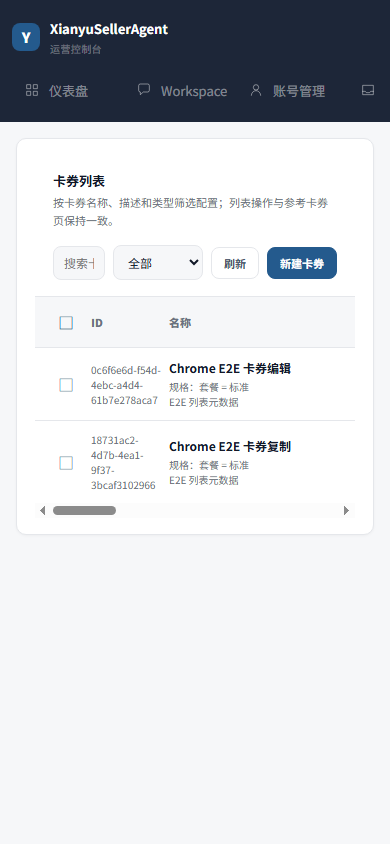
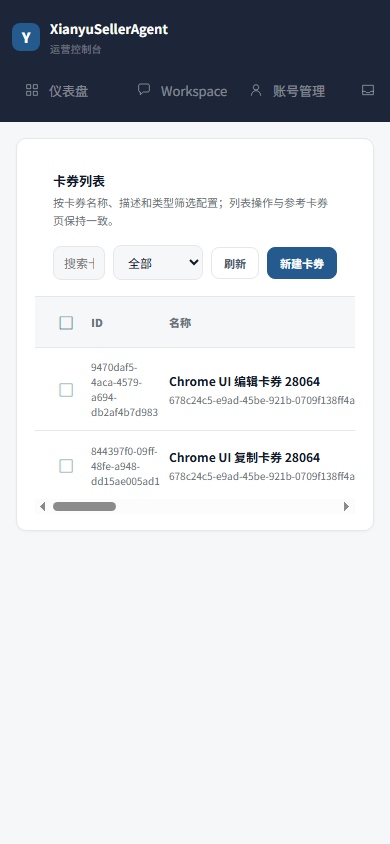
fix(卡券): 补齐创建列表管理端到端链路

diff --git a/apps/web/src/features/coupons/components/CouponsPage.tsx b/apps/web/src/features/coupons/components/CouponsPage.tsx
@@ -1,4 +1,5 @@
-import { useMemo, useState } from 'react';
+import { useEffect, useMemo, useState } from 'react';
+import { useAccountContext } from '../../../app/account-context';
 import { createMockCouponsApi, type CouponsApi } from '../api';
 import { useCouponsController } from '../controller';
 import type { CouponBatchVM } from '../types';
@@ -14,24 +15,33 @@ import './coupons.css';
 export interface CouponsPageProps { api?: CouponsApi; productsApi?: ProductsApi; }
 
 export function CouponsPage({ api: providedApi, productsApi: providedProductsApi }: CouponsPageProps) {
+  const { currentAccountId, accountsLoading, accountsError } = useAccountContext();
+  const scopedAccountId = currentAccountId ?? '__no_active_account__';
   const api = useMemo(() => providedApi ?? createMockCouponsApi(), [providedApi]);
   const productsApi = useMemo(() => providedProductsApi ?? createMockProductsApi(), [providedProductsApi]);
-  const controller = useCouponsController({ api });
+  const controller = useCouponsController({ api, initialFilters: { accountId: scopedAccountId } });
   const [selectedIds, setSelectedIds] = useState<Set<string>>(new Set());
   const [editor, setEditor] = useState<{ mode: 'create' | 'edit' | 'copy'; batch?: CouponBatchVM } | null>(null);
   const [relationBatch, setRelationBatch] = useState<CouponBatchVM | null>(null);
   const [relationReadonly, setRelationReadonly] = useState(false);
   const [imagePreview, setImagePreview] = useState<string | null>(null);
   const batches = controller.state.data?.items ?? [];
+  const contextMissing = !accountsLoading && !accountsError && !currentAccountId;
+  useEffect(() => {
+    controller.setFilters((previous) => previous.accountId === scopedAccountId ? previous : { ...previous, accountId: scopedAccountId, page: 1 });
+    setSelectedIds(new Set());
+    setEditor(null);
+    controller.closeBatch();
+  }, [controller.closeBatch, controller.setFilters, scopedAccountId]);
   const openEdit = async (batch: CouponBatchVM) => { const detail = await api.getDetail(batch.batchId); setEditor({ mode: 'edit', batch: detail }); };
   const openCopy = async (batch: CouponBatchVM) => { const detail = await api.getDetail(batch.batchId); setEditor({ mode: 'copy', batch: detail }); };
   const openRelation = async (batchId: string, readonly = false) => { const detail = await api.getDetail(batchId); setRelationReadonly(readonly); setRelationBatch(detail); };
   const saveRelation = async (productIds: string[], initialIds: string[]) => { if (!relationBatch) return; const next = new Set(productIds); for (const productId of initialIds) if (!next.has(productId)) await controller.unbindBatch(relationBatch.batchId, productId); for (const productId of productIds) if (!initialIds.includes(productId)) await controller.bindBatch(relationBatch.batchId, productId); const detail = await api.getDetail(relationBatch.batchId); setRelationBatch(detail); setRelationReadonly(false); };
   const bulkActions = selectedIds.size > 0 && <div className="coupons-bulk-actions">{<button className="btn danger" type="button" onClick={() => { if (window.confirm(`确认删除选中的 ${selectedIds.size} 张卡券？`)) void controller.batchDelete(Array.from(selectedIds)).then(() => setSelectedIds(new Set())); }}>删除选中 ({selectedIds.size})</button>}{selectedIds.size === 1 && <button className="btn ghost" type="button" onClick={() => { const batchId = Array.from(selectedIds)[0]; if (batchId) void openRelation(batchId); }}>关联商品</button>}</div>;
   return <section className="page-stack coupons-domain" data-coupons-domain>
-    <article className="card panel coupons-panel"><CouponToolbar filters={controller.filters} phase={controller.state.phase} onKeywordChange={(keyword) => { controller.setKeyword(keyword); setSelectedIds(new Set()); }} onPurposeChange={(purpose) => { controller.setFilters((previous) => ({ ...previous, purpose, page: 1 })); setSelectedIds(new Set()); }} onCreate={() => setEditor({ mode: 'create' })} onRefresh={() => void controller.reload()} bulkActions={bulkActions} />{controller.state.phase === 'success' && <CouponBatchTable batches={batches} selectedIds={selectedIds} onSelect={(batchId) => setSelectedIds((previous) => { const next = new Set(previous); if (next.has(batchId)) next.delete(batchId); else next.add(batchId); return next; })} onSelectAll={() => setSelectedIds((previous) => batches.every((batch) => previous.has(batch.batchId)) ? new Set() : new Set(batches.map((batch) => batch.batchId)))} onOpen={controller.openBatch} onEdit={(batch) => void openEdit(batch)} onCopy={(batch) => void openCopy(batch)} onBind={(batchId) => void openRelation(batchId)} onToggle={(batch) => { if (batch.status === 'voided') return; void controller.updateBatch(batch.batchId, { status: batch.status === 'active' ? 'paused' : 'active' }); }} onDelete={(batchId) => { if (window.confirm('确认删除该卡券？删除后保留审计历史。')) void controller.deleteBatch(batchId); }} onImagePreview={setImagePreview} />}<CouponListStateView phase={controller.state.phase} error={controller.state.error} onRetry={controller.reload} /></article>
+    <article className="card panel coupons-panel"><CouponToolbar filters={controller.filters} phase={controller.state.phase} createDisabled={accountsLoading || Boolean(accountsError) || !currentAccountId} onKeywordChange={(keyword) => { controller.setKeyword(keyword); setSelectedIds(new Set()); }} onPurposeChange={(purpose) => { controller.setFilters((previous) => ({ ...previous, purpose, page: 1 })); setSelectedIds(new Set()); }} onCreate={() => { if (!currentAccountId) return; setEditor({ mode: 'create' }); }} onRefresh={() => void controller.reload()} bulkActions={bulkActions} />{accountsError && <div className="coupons-inline-error" role="alert">账号上下文加载失败：{accountsError}</div>}{contextMissing && <div className="coupons-context-note" role="status">请先选择一个可用账号后再创建或管理卡券。</div>}{controller.state.phase === 'success' && <CouponBatchTable batches={batches} selectedIds={selectedIds} onSelect={(batchId) => setSelectedIds((previous) => { const next = new Set(previous); if (next.has(batchId)) next.delete(batchId); else next.add(batchId); return next; })} onSelectAll={() => setSelectedIds((previous) => batches.every((batch) => previous.has(batch.batchId)) ? new Set() : new Set(batches.map((batch) => batch.batchId)))} onOpen={controller.openBatch} onEdit={(batch) => void openEdit(batch)} onCopy={(batch) => void openCopy(batch)} onBind={(batchId) => void openRelation(batchId)} onToggle={(batch) => { if (batch.status === 'voided') return; void controller.updateBatch(batch.batchId, { status: batch.status === 'active' ? 'paused' : 'active' }); }} onDelete={(batchId) => { if (window.confirm('确认删除该卡券？删除后保留审计历史。')) void controller.deleteBatch(batchId); }} onImagePreview={setImagePreview} />}<CouponListStateView phase={controller.state.phase} error={controller.state.error} onRetry={controller.reload} /></article>
     <CouponDrawer state={controller.detail} content={controller.content} mutation={controller.mutation} onClose={controller.closeBatch} onRetry={() => controller.detail.batchId && controller.openBatch(controller.detail.batchId)} onImport={async (items) => { if (controller.detail.batchId) await controller.importItems(controller.detail.batchId, items); }} onBind={async (productId) => { if (controller.detail.batchId) await controller.bindBatch(controller.detail.batchId, productId); }} onVoid={async () => { if (controller.detail.batchId) await controller.voidBatch(controller.detail.batchId); }} onPreview={controller.previewContent} />
-    {editor && <CouponCreateModal mode={editor.mode} batch={editor.batch} submitting={controller.mutation.phase === 'submitting'} onClose={() => setEditor(null)} onSubmit={async (input) => { if (editor.mode === 'edit' && editor.batch) await controller.updateBatch(editor.batch.batchId, input); else await controller.createBatch(input as Parameters<typeof controller.createBatch>[0]); }} />}
+    {editor && <CouponCreateModal mode={editor.mode} batch={editor.batch} accountId={currentAccountId} submitting={controller.mutation.phase === 'submitting'} onClose={() => setEditor(null)} onSubmit={async (input) => { if (editor.mode === 'edit' && editor.batch) await controller.updateBatch(editor.batch.batchId, input); else await controller.createBatch(input as Parameters<typeof controller.createBatch>[0]); }} />}
     {relationBatch && <CouponRelationModal batch={relationBatch} productsApi={productsApi} readonly={relationReadonly} submitting={controller.mutation.phase === 'submitting'} onClose={() => { setRelationBatch(null); setRelationReadonly(false); }} onSave={saveRelation} />}
     {imagePreview && <div className="coupons-image-preview-backdrop" role="presentation" onMouseDown={(event) => { if (event.currentTarget === event.target) setImagePreview(null); }}><div className="coupons-image-preview card"><button type="button" className="icon-button" onClick={() => setImagePreview(null)} aria-label="关闭">×</button><img src={imagePreview} alt="卡券原图预览" /></div></div>}
   </section>;

diff --git a/apps/web/src/features/coupons/components/CouponCreateModal.tsx b/apps/web/src/features/coupons/components/CouponCreateModal.tsx
@@ -1,4 +1,4 @@
-import { useMemo, useState } from 'react';
+import { useEffect, useMemo, useState } from 'react';
 import type { ChangeEvent, FormEvent } from 'react';
 import type { CouponBatchVM, CouponMetadataVM, CreateCouponBatchRequest, UpdateCouponBatchRequest } from '../types';
 import { SelectField } from '../../../shared/ui/SelectField';
@@ -20,9 +20,9 @@ export type CouponCreateFormState = {
   quarkUrl: string; extractionCode: string; textContent: string; dataContent: string; apiUrl: string; apiMethod: 'GET' | 'POST'; apiTimeout: number; apiHeaders: string; apiParams: string; apiResponseField: string; imageUrls: string[]; delaySeconds: number; useNoLogisticsForm: boolean; deliveryCount: number; description: string; feePayer: '' | 'distributor' | 'dealer'; minPrice: string; dockVisibility: 'public' | 'dealer_only'; multiSpec: boolean; specName: string; specValue: string;
 };
 
-function fromBatch(batch?: CouponBatchVM): CouponCreateFormState {
+function fromBatch(batch?: CouponBatchVM, accountId?: string): CouponCreateFormState {
   const metadata = batch?.metadata;
-  return { accountId: batch?.accountId ?? 'account-001', label: batch?.label ?? '', purpose: batch?.purpose ?? 'text', deliveryScope: batch?.deliveryScope ?? 'operator_only', quarkUrl: batch?.quarkUrl ?? '', extractionCode: batch?.extractCode ?? '', textContent: metadata?.textContent ?? '', dataContent: metadata?.dataContent ?? '', apiUrl: metadata?.apiConfig?.url ?? '', apiMethod: metadata?.apiConfig?.method ?? 'GET', apiTimeout: metadata?.apiConfig?.timeout ?? 60, apiHeaders: metadata?.apiConfig?.headers ?? '', apiParams: metadata?.apiConfig?.params ?? '', apiResponseField: metadata?.apiConfig?.responseField ?? '', imageUrls: metadata?.imageUrls ?? [], delaySeconds: metadata?.delaySeconds ?? 0, useNoLogisticsForm: metadata?.useNoLogisticsForm ?? false, deliveryCount: metadata?.deliveryCount ?? batch?.consumedCount ?? 0, description: metadata?.description ?? '', feePayer: metadata?.feePayer ?? '', minPrice: metadata?.minPrice ?? '', dockVisibility: metadata?.dockVisibility ?? 'public', multiSpec: metadata?.multiSpec ?? false, specName: metadata?.specName ?? '', specValue: metadata?.specValue ?? '' };
+  return { accountId: batch?.accountId ?? accountId ?? '', label: batch?.label ?? '', purpose: batch?.purpose ?? 'text', deliveryScope: batch?.deliveryScope ?? 'operator_only', quarkUrl: batch?.quarkUrl ?? '', extractionCode: batch?.extractCode ?? '', textContent: metadata?.textContent ?? '', dataContent: metadata?.dataContent ?? '', apiUrl: metadata?.apiConfig?.url ?? '', apiMethod: metadata?.apiConfig?.method ?? 'GET', apiTimeout: metadata?.apiConfig?.timeout ?? 60, apiHeaders: metadata?.apiConfig?.headers ?? '', apiParams: metadata?.apiConfig?.params ?? '', apiResponseField: metadata?.apiConfig?.responseField ?? '', imageUrls: metadata?.imageUrls ?? [], delaySeconds: metadata?.delaySeconds ?? 0, useNoLogisticsForm: metadata?.useNoLogisticsForm ?? false, deliveryCount: metadata?.deliveryCount ?? batch?.consumedCount ?? 0, description: metadata?.description ?? '', feePayer: metadata?.feePayer ?? '', minPrice: metadata?.minPrice ?? '', dockVisibility: metadata?.dockVisibility ?? 'public', multiSpec: metadata?.multiSpec ?? false, specName: metadata?.specName ?? '', specValue: metadata?.specValue ?? '' };
 }
 
 function parseJson(value: string): boolean { if (!value.trim()) return true; try { JSON.parse(value); return true; } catch { return false; } }
@@ -30,6 +30,7 @@ function readImageAsDataUrl(file: File): Promise<string> { return new Promise((r
 
 export function validateCouponForm(form: CouponCreateFormState, mode: 'create' | 'edit' | 'copy' = 'create'): string {
   if (!form.label.trim()) return '请输入卡券名称。';
+  if (!form.accountId.trim()) return '当前没有可用账号，请先选择或创建一个账号。';
   if (!form.purpose) return '请选择卡券类型。';
   if (form.purpose === 'api' && !form.apiUrl.trim()) return '请输入API地址。';
   if (mode === 'create' && form.purpose === 'text' && !form.textContent.trim()) return '请输入固定文字内容。';
@@ -47,12 +48,16 @@ export function buildCouponPayload(form: CouponCreateFormState, baseMetadata?: C
   return { accountId: form.accountId.trim(), label: form.label.trim(), purpose: form.purpose, deliveryScope: form.deliveryScope, quarkUrl: form.quarkUrl.trim() || undefined, extractionCode: form.extractionCode.trim() || undefined, metadata };
 }
 
-export function CouponCreateModal({ submitting, mode = 'create', batch, onClose, onSubmit }: { submitting: boolean; mode?: 'create' | 'edit' | 'copy'; batch?: CouponBatchVM; onClose: () => void; onSubmit: (input: CreateCouponBatchRequest | UpdateCouponBatchRequest) => Promise<void> }) {
-  const [form, setForm] = useState<CouponCreateFormState>(() => fromBatch(batch));
+export function CouponCreateModal({ submitting, mode = 'create', batch, accountId, onClose, onSubmit }: { submitting: boolean; mode?: 'create' | 'edit' | 'copy'; batch?: CouponBatchVM; accountId?: string; onClose: () => void; onSubmit: (input: CreateCouponBatchRequest | UpdateCouponBatchRequest) => Promise<void> }) {
+  const [form, setForm] = useState<CouponCreateFormState>(() => fromBatch(batch, accountId));
   const [error, setError] = useState('');
   const title = mode === 'edit' ? '编辑卡券' : mode === 'copy' ? '复制卡券' : '新建卡券';
   const set = <K extends keyof CouponCreateFormState>(key: K, value: CouponCreateFormState[K]) => setForm((previous) => ({ ...previous, [key]: value }));
   const payload = useMemo(() => buildCouponPayload(form, batch?.metadata), [batch?.metadata, form]);
+
+  useEffect(() => {
+    if (mode === 'create' && !form.accountId && accountId) set('accountId', accountId);
+  }, [accountId, form.accountId, mode]);
 
   function insertParam(paramName: string) {
     let json: Record<string, string> = {};
@@ -75,8 +80,12 @@ export function CouponCreateModal({ submitting, mode = 'create', batch, onClose,
     if (validationError) { setError(validationError); return; }
     setError('');
     const next = mode === 'edit' ? { ...payload, items: undefined } : payload;
-    await onSubmit(next);
-    onClose();
+    try {
+      await onSubmit(next);
+      onClose();
+    } catch (submitError) {
+      setError(submitError instanceof Error ? submitError.message : '保存失败，请稍后重试。');
+    }
   }
 
   return <div className="coupons-modal-backdrop" role="presentation" onMouseDown={(event) => { if (event.currentTarget === event.target) onClose(); }}>

diff --git a/apps/web/src/features/coupons/components/CouponToolbar.tsx b/apps/web/src/features/coupons/components/CouponToolbar.tsx
@@ -9,7 +9,7 @@ const types: Array<{ value: CouponBatchVM['purpose'] | 'all'; label: string }> =
   { value: 'image', label: '图片' },
 ];
 
-export function CouponToolbar({ filters, phase, onKeywordChange, onPurposeChange, onCreate, onRefresh, bulkActions }: { filters: CouponBatchFilters; phase: CouponsLoadPhase; onKeywordChange: (value: string) => void; onPurposeChange: (value: CouponBatchVM['purpose'] | 'all') => void; onCreate: () => void; onRefresh: () => void; bulkActions?: ReactNode }) {
+export function CouponToolbar({ filters, phase, onKeywordChange, onPurposeChange, onCreate, onRefresh, bulkActions, createDisabled = false }: { filters: CouponBatchFilters; phase: CouponsLoadPhase; onKeywordChange: (value: string) => void; onPurposeChange: (value: CouponBatchVM['purpose'] | 'all') => void; onCreate: () => void; onRefresh: () => void; bulkActions?: ReactNode; createDisabled?: boolean }) {
   return <div className="coupons-toolbar">
     <div><h2>卡券列表</h2><p>按卡券名称、描述和类型筛选配置；列表操作与参考卡券页保持一致。</p></div>
     <div className="coupons-toolbar-actions">
@@ -17,7 +17,7 @@ export function CouponToolbar({ filters, phase, onKeywordChange, onPurposeChange
       <label><span className="sr-only">卡券类型</span><select aria-label="卡券类型" value={filters.purpose ?? 'all'} onChange={(event) => onPurposeChange(event.target.value as CouponBatchVM['purpose'] | 'all')}>{types.map((type) => <option key={type.value} value={type.value}>{type.label}</option>)}</select></label>
       <button className="btn ghost" type="button" onClick={onRefresh} disabled={phase === 'loading'}>刷新</button>
       {bulkActions}
-      <button className="btn primary" type="button" onClick={onCreate}>新建卡券</button>
+      <button className="btn primary" type="button" onClick={onCreate} disabled={createDisabled}>新建卡券</button>
     </div>
   </div>;
 }

diff --git a/apps/web/src/features/coupons/components/coupons.css b/apps/web/src/features/coupons/components/coupons.css
@@ -44,6 +44,9 @@
 .coupons-state { display: grid; place-items: center; gap: 6px; min-height: 220px; padding: 28px; color: var(--sub); text-align: center; }
 .coupons-state strong, .coupons-detail-state strong { color: var(--text); font-size: 13px; }
 .coupons-state span, .coupons-detail-state span { font-size: 11px; }
+.coupons-inline-error, .coupons-context-note { margin: 12px 18px 0; padding: 9px 11px; border-radius: 8px; font-size: 11px; }
+.coupons-inline-error { color: #9f1239; background: #fff1f2; border: 1px solid #fecdd3; }
+.coupons-context-note { color: var(--sub); background: var(--bg); border: 1px solid var(--border); }
 .coupons-error { color: var(--danger); }
 .coupons-error span { color: var(--sub); }
 .coupons-skeleton { width: 92%; height: 38px; border-radius: 8px; background: linear-gradient(90deg, var(--bg), #fff, var(--bg)); background-size: 200% 100%; animation: coupons-shimmer 1.4s ease-in-out infinite; }

diff --git a/apps/web/src/features/coupons/components/CouponCreateModal.test.ts b/apps/web/src/features/coupons/components/CouponCreateModal.test.ts
@@ -60,6 +60,7 @@ describe('CouponCreateModal', () => {
   });
 
   it('validates reference-specific content and JSON rules', () => {
+    expect(validateCouponForm({ ...baseForm, accountId: '', label: '缺少账号', textContent: '内容' })).toContain('可用账号');
     expect(validateCouponForm({ ...baseForm, label: 'API 卡券', purpose: 'api' })).toContain('API地址');
     expect(validateCouponForm({ ...baseForm, label: '文本卡券', textContent: '内容', description: '普通备注' })).toContain('{DELIVERY_CONTENT}');
     expect(validateCouponForm({ ...baseForm, label: '接口卡券', purpose: 'api', apiUrl: 'https://example.com', apiHeaders: '{bad' })).toContain('请求头');

diff --git a/docs/evidence/stage5/S4-VS3/coupons-create-list-e2e-2026-09-21.md b/docs/evidence/stage5/S4-VS3/coupons-create-list-e2e-2026-09-21.md
@@ -1,0 +1,38 @@
+# 卡券创建到列表管理端到端证据
+
+日期：2026-09-21（Asia/Shanghai）  
+分支：`fix/coupons-create-list-e2e`  
+Worktree：`F:\ChenHai\Project\XianYuAgent-coupons-create-list-e2e`
+
+## 验收链路
+
+- Chrome/CDP 通过“新建卡券”弹窗填写唯一卡券名称和固定文字内容。
+- 创建请求使用 `AccountContext` 当前可用账号，不再回退到硬编码 `account-001`。
+- 保存后断言弹窗关闭、卡券名称和正文预览出现在列表，并通过 MemoryStore 列表复读确认 API 已持久化。
+- 在同一条 UI 创建的卡券上完成编辑、复制、禁用、启用、详情、库存导入、受控正文预览、绑定商品和作废。
+- 刷新页面后再次断言编辑后的卡券仍在列表，覆盖真实 API 回读与管理状态链路。
+
+## 验证命令
+
+```text
+npm run verify
+```
+
+结果：通过。包含 API/Web 类型检查、API 全量 smoke、Web 39 个测试文件 / 118 个测试、API/Web 构建、账号 Chrome/CDP E2E、卡券 Chrome/CDP E2E、Compose 配置和 `git diff --check`。
+
+卡券 E2E 输出：
+
+```text
+local Chrome E2E passed: UI create -> list -> edit/copy/toggle -> import/bind/void -> reload
+```
+
+## 视觉证据
+
+- `screenshots/coupons-create-modal-desktop-1440x900.png`
+- `screenshots/coupons-create-modal-mobile-390x844.png`
+- `screenshots/coupons-desktop-1440x900.png`
+- `screenshots/coupons-mobile-390x844.png`
+
+## 范围说明
+
+本次使用隔离 Chrome、stub API 和 MemoryStore 完成可复现的前后端真实 HTTP 链路；未将预置卡券冒充 UI 创建结果。正式 PostgreSQL/Redis/MinIO 发布级恢复演练仍属于项目既有后续门禁。

diff --git a/docs/agent-worktree-registry.md b/docs/agent-worktree-registry.md
@@ -70,6 +70,7 @@
 | --- | --- | --- | --- | --- | --- | --- | --- | --- | --- |
 | `root` | `docs-multi-agent-collaboration` | `docs/multi-agent-collaboration` | `F:\ChenHai\Project\XianYuAgent-multi-agent-docs` | Codex `/root` | `2026-09-19 00:00:00 +08:00` | `CLEANED` | `e9aaf782` | `2026-09-19 04:15:00 +08:00` | 分支提交 `b278617` 已在全局 merge lock 内以 `--no-ff` 合入 `master`；worktree 已删除，分支已删除 |
 | `root` | `coupons-modal-polish` | `fix/coupons-modal-polish` | `F:\ChenHai\Project\XianYuAgent-coupons-modal-polish` | Codex `/root` | `2026-09-21 11:02:19 +08:00` | `READY_FOR_MERGE` | `-` | `-` | master 已恢复干净；独立 review 无阻塞问题；feature 提交 `5e7f19c` 待在 merge lock 内以 `--no-ff` 合入 |
+| `root` | `coupons-create-list-e2e` | `fix/coupons-create-list-e2e` | `F:\ChenHai\Project\XianYuAgent-coupons-create-list-e2e` | Codex `/root` | `2026-09-21 11:49:25 +08:00` | `READY_FOR_MERGE` | `-` | `-` | 独立复核已关闭账号 scope 与上下文竞态问题；当前账号筛选、UI 创建、列表回读与编辑/复制/启停/库存/绑定/作废管理已通过 `npm run verify` |
 
 ## 登记维护规则
 
